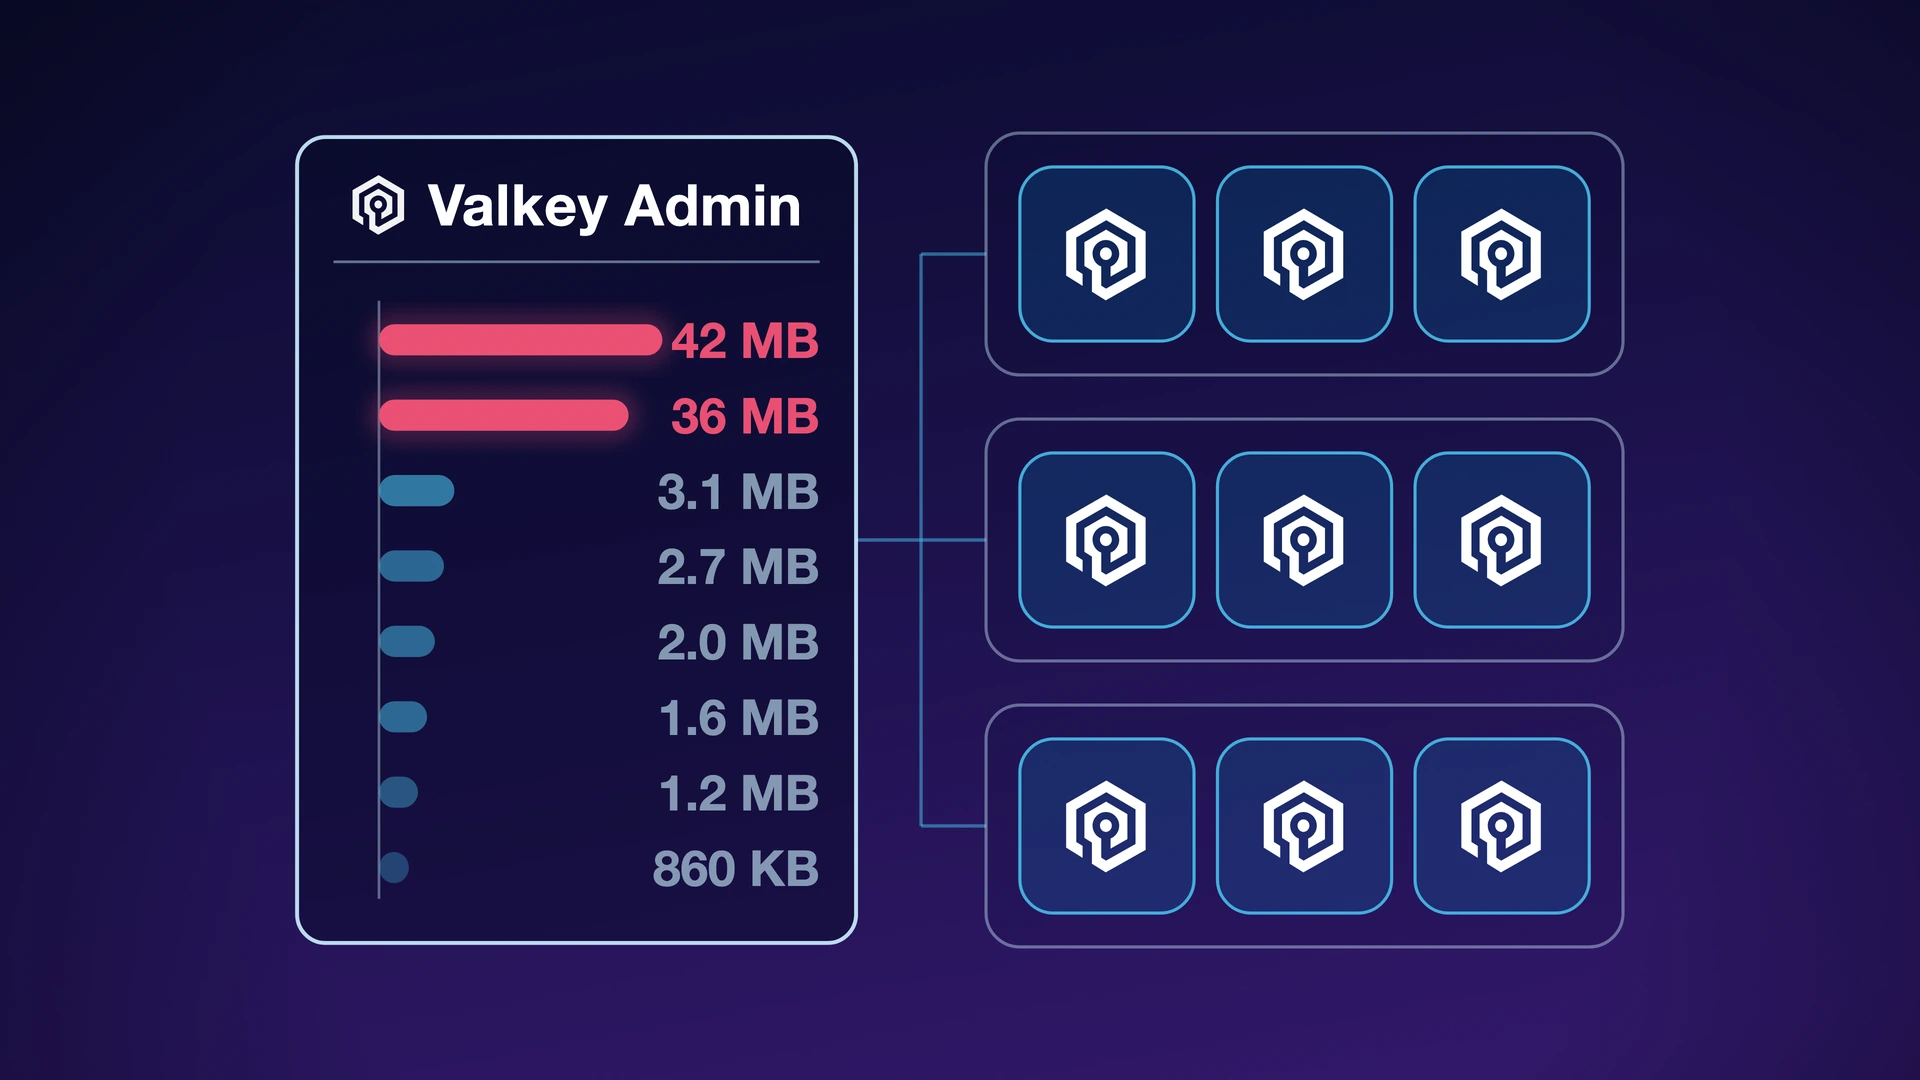
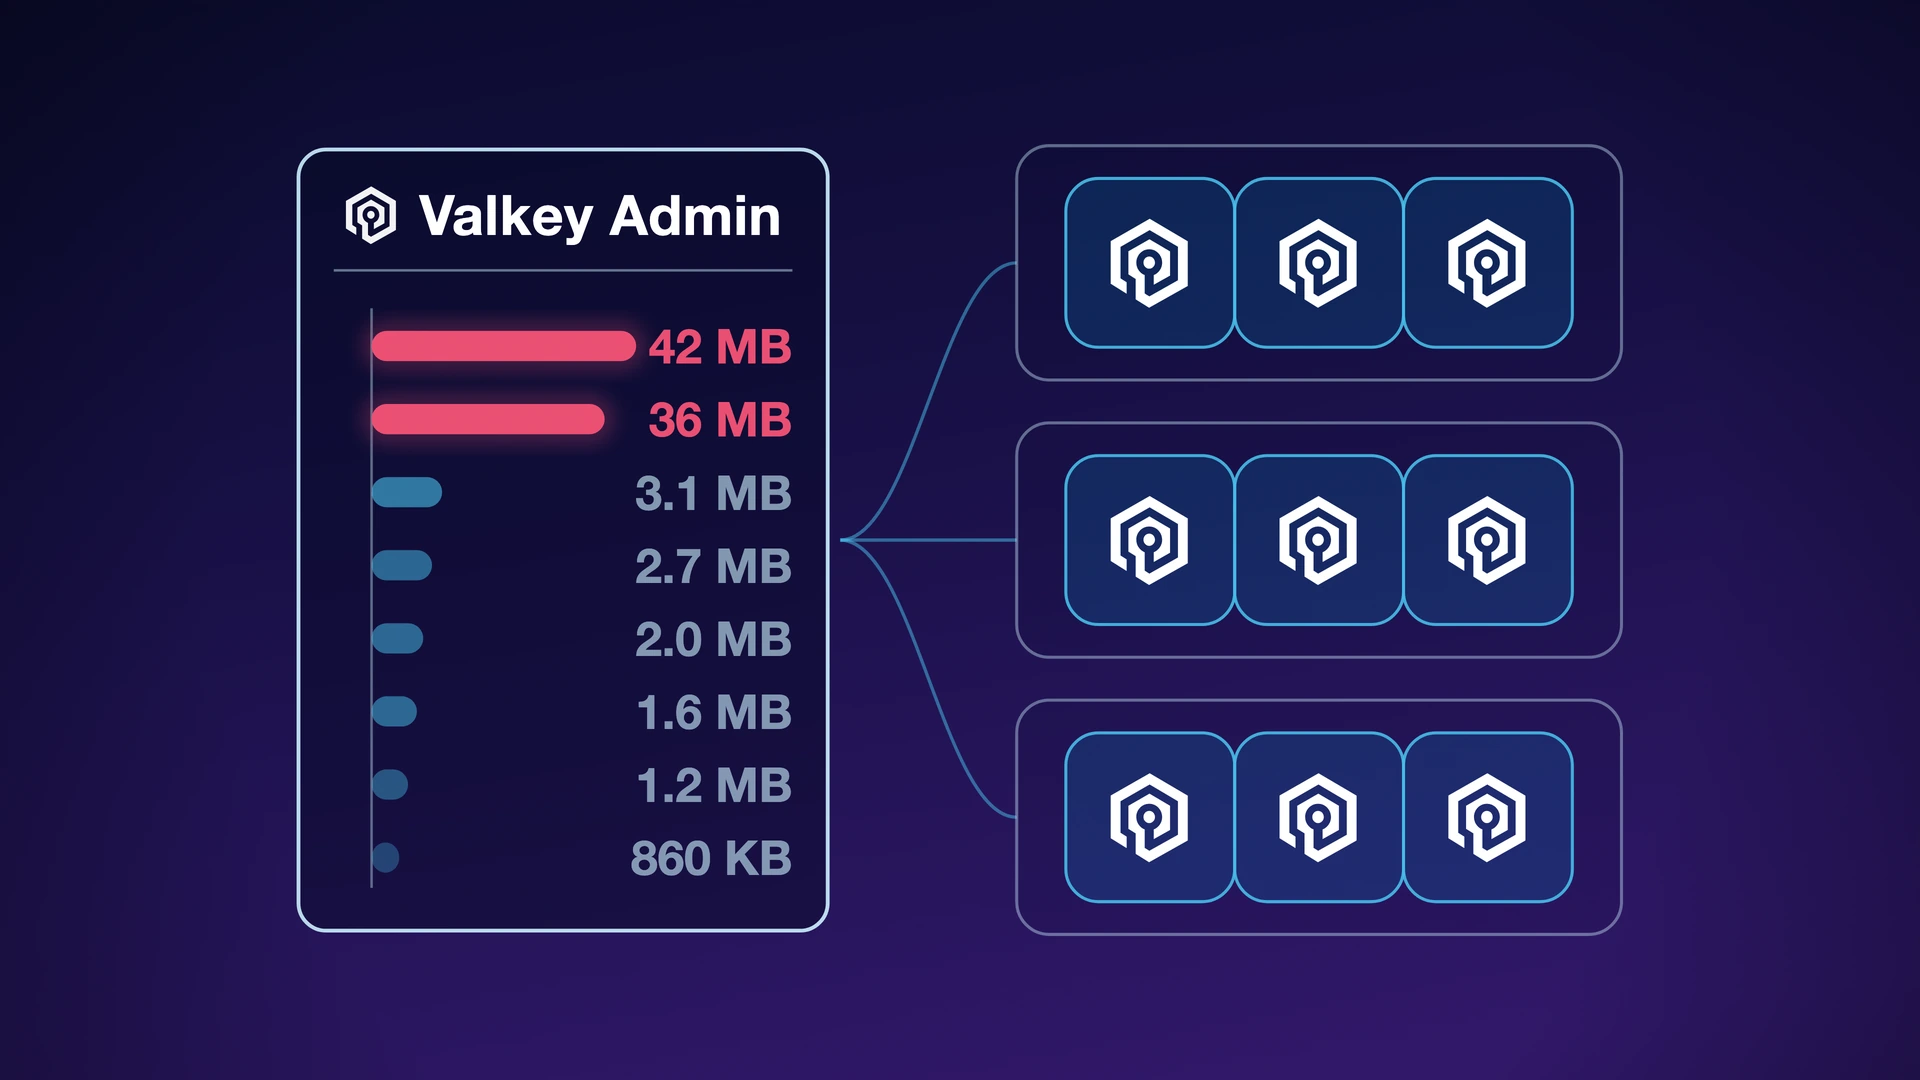
key-size-distribution: curves back, more air, plus a solid-field variant
Both control points sit near the middle of a short run, so each path is a
rounded corner rather than the swoop the first version had. The gap between the
panel and the shards goes from 100px to 150px, paid for by trimming the panel to
420 and dropping zoom to 1.26; the motif still fills 73% of the framed height.

key-size-distribution-flat is the same art function registered again with
solid: true, so the pair stays in sync by construction.

Changed region(s): [[0.4688, 0.1222, 0.8438, 0.8861], [0.1562, 0.1222, 0.4688, 0.825], [0.1562, 0.6417, 0.4688, 0.8861]]

diff --git a/README.md b/README.md
@@ -48,6 +48,7 @@ can't drift, and regenerating is a no-op diff.
 | `data-structures-grid` | Six value types, one per cell on an even 3x2 grid: byte run, list, set, hash, sorted set, bitmap | Type overviews, command surveys, what Valkey stores |
 | `k8s-spec-fanout` | A declared spec panel fanning out along rails into a grid of identical instances | Helm charts, operators, declarative deployment |
 | `key-size-distribution` | Ranked key-size bars with two big outliers, fanning into a grid of servers | Key size skew, heavy hitters, hot keys across a fleet |
+| `key-size-distribution-flat` | The same panel and shards on one solid purple field | Same, where the banner should read as flat graphic design |
 | `k8s-desired-count` | Six declared slots, four filled, one rising into place, one still empty | Replica counts, scaling to a desired state, reconciliation |
 | `limits-tight-envelope` | A small box packed edge to edge, pushing out, inside far larger outlines | Constrained hardware, small instances, resource ceilings |
 | `limits-gauge-pinned` | A gauge sweeping into gold and stopping short of a red end zone | Running right up to a limit, headroom, saturation |
